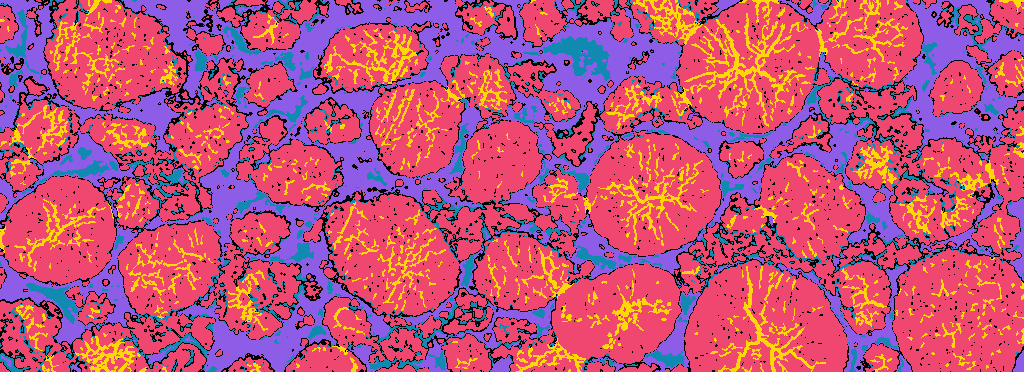
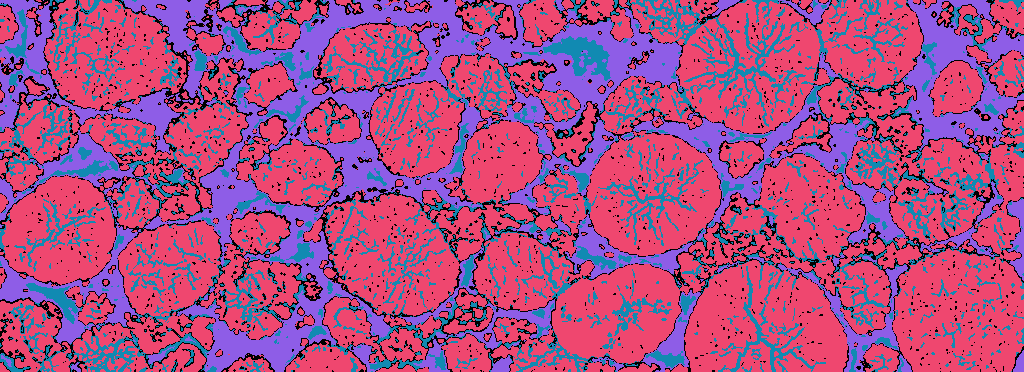
Merge sample1's crack into pore and drop asset overlays

diff --git a/docs/dino-features.md b/docs/dino-features.md
@@ -65,11 +65,11 @@ Scale 8 at the default width of 768 px stores about 110 MiB of tokens per image.
 
 The seeds come from brightness, so particle/pore/binder favour brightness features; the DINO fill favours DINO on faint cracks. Review the overlay in the app before trusting the numbers.
 
-`frontend/asset/sampleN_mask.png` (with `_overlay.png`) are answer keys for all four samples in the app's export format, built with the size-channel pipeline:
+`frontend/asset/sampleN_mask.png` are answer keys for all four samples in the app's export format, built with the size-channel pipeline:
 
 | Sample | Classes | Built with |
 |---|---|---|
-| 1 | particle, pore, crack, binder | `make_truth.py`; 97 % agreement with truth v2 on pixels both score |
+| 1 | particle, pore, binder | `make_truth.py`, then crack merged into pore after review (the lines inside particles count as pore) |
 | 2 | particle, pore, crack, binder | `make_truth.py --scale .5 --split`: smaller particles, and dark gaps on watershed lines between touching particles are pore |
 | 3 | large, small, background | `make_size_truth.py`, size rule (same as `eval/truth/sample3_size_mask.png`) |
 | 4 | particle, pore, crack | `make_sample4_truth.py`: polished graphite sections; surfaces below the section plane, marked by hand boxes, are pore |
